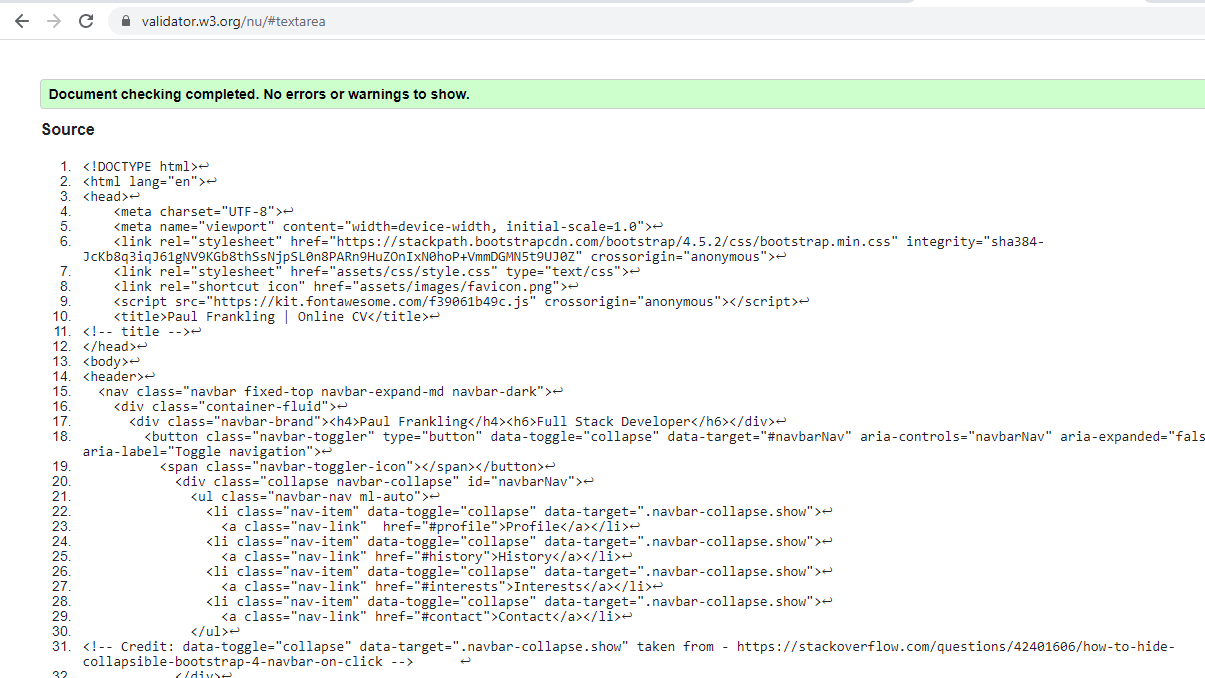
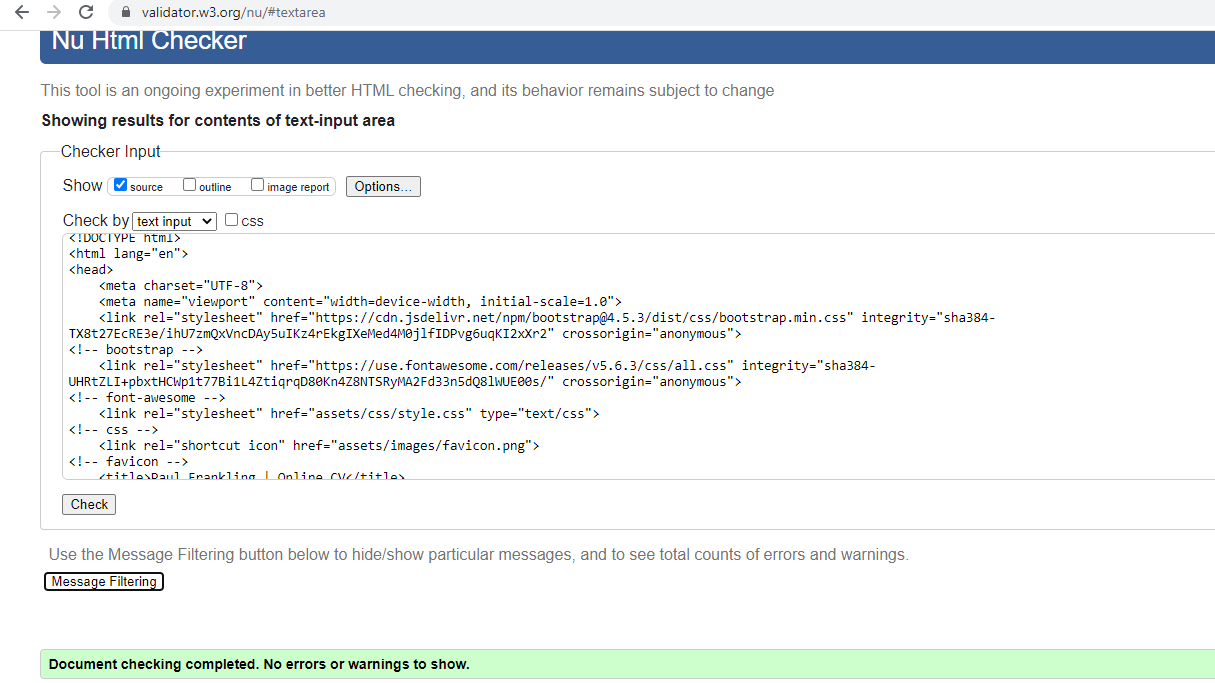
writing testing and replaced html validation pic with updated pic and also added bug picture

Changed region(s): [[0.0, 0.0, 1.0, 1.0], [0.7062, 0.4336, 0.829, 0.4956]]

diff --git a/README.md b/README.md
@@ -185,8 +185,16 @@ I validated my webpage with the use of the W3C Markup Validator and the W3C CSS 
   * Huawei P30 Lite
   * Acer Laptop
 
-
 ### Known Bugs
+
+* On Apple iPhones and iPads, the smooth scroll doesn't work and the navigation flashes to the link instantly. It also does this on Microsoft Edge and Internet Explorer.
+( Javascript is needed in order to get this to work as it states [here](https://stackoverflow.com/questions/56011205/is-there-a-safari-equivalent-for-scroll-behavior-smooth/56011281#:~:text=You%20can%20use%20%2Dwebkit%2Doverflow,No%20javascript%20required) )
+
+* Also on iPhones and iPads, the link to the **Profile section** sometimes takes the user almost half way down the image at the top of the page. I tested this on my laptop, Huawei P30 Lite and P Smart and the image was always fully visible, which was the desired outcome.
+Here is an image of the bug on the Iphone 7: ![screenshot-bug](assets/testing/screenshot-bug.png)
+
+* The Contact-form refreshes at the **Contact section** when the form is submitted on iPads, Huawei P30 Lite and P Smart. But on the iPhone 7 and X, it refreshes back to the top of the page.
+
 
 ## Deployment:
 
